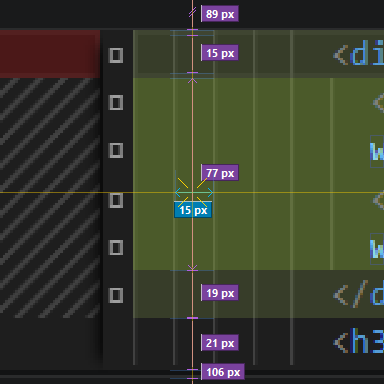
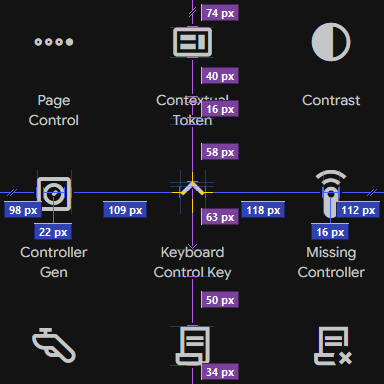
Gap sum card, five new hero captures, a quieter title and a real-time subtitle

diff --git a/index.html b/index.html
@@ -108,11 +108,12 @@ main::before{
 .hero p.kicker{color:var(--fg-dim);font-weight:600;font-size:14px;margin-bottom:4px}
 .hero h1{
   font-size:36px;line-height:1.3;font-weight:600;letter-spacing:-.02em;
-  margin-bottom:44px;
+  margin-bottom:44px;color:#a3a8b4;
 }
-/* The two capitals in the logo's own colours: the blue ring and the yellow L. */
-.hero h1 .c-m{color:#0eb5ff}
-.hero h1 .c-l{color:#fcc302}
+/* One quiet grey for the name and a muted blue for its second half (owner,
+   2026-09-16). The logo's own blue and yellow on two capitals were louder than
+   the pictures under them. */
+.hero h1 .c-l{color:#7892cd}
 
 /* The captures and nothing around them, fading from one to the next.
 
@@ -334,12 +335,12 @@ footer{
   <div class="wrap hero">
     <img class="logo" src="./icon.png" alt="" />
     <p class="kicker">
-      <span data-i="ko">Windows 화면 자동 측정 유틸리티 - 매직 루페</span>
-      <span data-i="en">Automatic screen measurement utility for Windows</span>
+      <span data-i="ko">Windows 화면 실시간 측정 유틸리티 - 매직 루페</span>
+      <span data-i="en">Real-time screen measurement utility for Windows</span>
     </p>
     <h1>
-      <span data-i="ko"><span class="c-m">M</span>agic<span class="c-l">L</span>oupe</span>
-      <span data-i="en"><span class="c-m">M</span>agic<span class="c-l">L</span>oupe</span>
+      <span data-i="ko">Magic<span class="c-l">Loupe</span></span>
+      <span data-i="en">Magic<span class="c-l">Loupe</span></span>
     </h1>
     <!-- One set for both languages. Nothing in them is a word: the bar is
          icons, the reading line is numbers, and what they are showing is a
@@ -347,6 +348,9 @@ footer{
     <div class="shots" id="shots">
       <img class="on" src="./screenshots/hero-sc-01.png" alt="MagicLoupe" width="512" height="512" />
       <img src="./screenshots/hero-sc-02.png" alt="" width="512" height="512" />
+      <img src="./screenshots/hero-sc-03.png" alt="" width="512" height="512" />
+      <img src="./screenshots/hero-sc-04.png" alt="" width="512" height="512" />
+      <img src="./screenshots/hero-sc-05.png" alt="" width="512" height="512" />
     </div>
   </div>
 
@@ -465,11 +469,12 @@ footer{
           <div class="shot" aria-hidden="true">
             <img src="./screenshots/card08-1.png" alt="" width="384" height="384" loading="lazy" />
             <img src="./screenshots/card08-2.png" alt="" width="384" height="384" loading="lazy" />
+            <img src="./screenshots/card08-3.png" alt="" width="384" height="384" loading="lazy" />
           </div>
-          <h3><span data-i="ko">화면 정지</span><span data-i="en">Screen freeze</span></h3>
+          <h3><span data-i="ko">간격 합산</span><span data-i="en">Gap sum</span></h3>
           <p>
-            <span data-i="ko">계속 갱신되는 화면을 정지한 상태로 측정, Ctrl+Alt+F로 정지/해제 전환</span>
-            <span data-i="en">Freeze a screen that keeps changing and measure it at rest, Ctrl+Alt+F toggles it</span>
+            <span data-i="ko">간격을 각각 클릭으로 합쳐 볼 수 있음</span>
+            <span data-i="en">Click gaps one by one to add them together</span>
           </p>
         </div>
         <div class="tile">

diff --git a/README.md b/README.md
@@ -40,6 +40,7 @@ in `%AppData%\MagicLoupe`.
 - **Overlay filters.** Apply a green, red, mono, dark or light filter to read
   measurements easily on a busy screen.
 - **Screen freeze.** Freeze a screen that keeps changing and measure it at rest.
+- **Gap sum.** Click gaps one by one to add them together.
   Ctrl+Alt+F switches it on and off.
 - **Ruler guides and grid.** Pull guides out of the rulers and line them up with
   elements, show the grid and snap to it.
